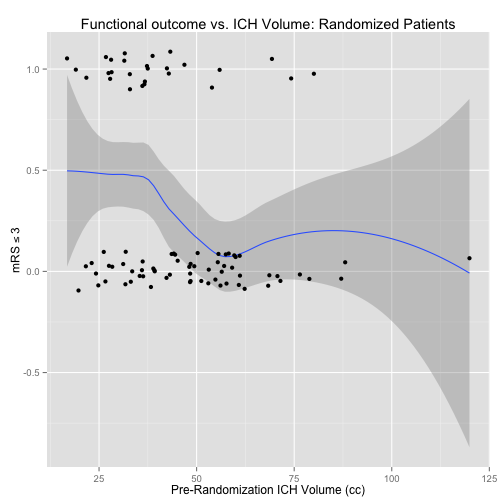
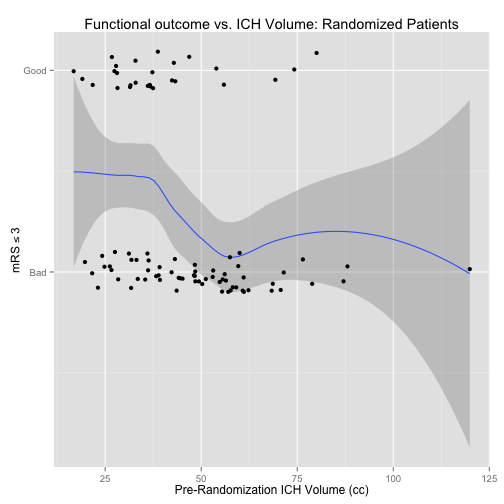
Loess Plots fixed

diff --git a/RIP_SlideDeck_2013Oct28.html b/RIP_SlideDeck_2013Oct28.html
@@ -282,7 +282,8 @@ strong {
     <h2>Does Blood matter?</h2>
   </hgroup>
   <article>
-    <p><img src="figure/rplot_loess_group.png" title="plot of chunk rplot_loess_group" alt="plot of chunk rplot_loess_group" style="display: block; margin: auto;" /></p>
+    <p><font size="2">Removed one subject with volume \(>\) 100.</font>
+<img src="figure/rplot_loess_group.png" title="plot of chunk rplot_loess_group" alt="plot of chunk rplot_loess_group" style="display: block; margin: auto;" /></p>
 
   </article>
   <!-- Presenter Notes -->
@@ -327,7 +328,7 @@ strong {
   <article>
     <!-- html table generated in R 3.0.1 by xtable 1.7-1 package -->
 
-<!-- Mon Oct 28 14:13:54 2013 -->
+<!-- Mon Oct 28 14:20:32 2013 -->
 
 <TABLE border=1>
 <TR> <TH>  </TH> <TH> CT </TH> <TH> MRI </TH>  </TR>

diff --git a/RIP_SlideDeck_2013Oct28.md b/RIP_SlideDeck_2013Oct28.md
@@ -190,7 +190,9 @@ From Italian Longitudinal Study of Aging (ILSA) (**N =5,632** individuals aged 6
 
 ## Does Blood matter?
 
+<font size="2">Removed one subject with volume $>$ 100.</font>
 <img src="figure/rplot_loess_group.png" title="plot of chunk rplot_loess_group" alt="plot of chunk rplot_loess_group" style="display: block; margin: auto;" />
+
 
 ---
 
@@ -218,7 +220,7 @@ From Italian Longitudinal Study of Aging (ILSA) (**N =5,632** individuals aged 6
 ## CT is NOT MRI (specifically not T1/T2)
 
 <!-- html table generated in R 3.0.1 by xtable 1.7-1 package -->
-<!-- Mon Oct 28 14:13:54 2013 -->
+<!-- Mon Oct 28 14:20:32 2013 -->
 <TABLE border=1>
 <TR> <TH>  </TH> <TH> CT </TH> <TH> MRI </TH>  </TR>
   <TR> <TD align="right"> Domain </TD> <TD> Diagnostic </TD> <TD> Diagnostic/Research </TD> </TR>
